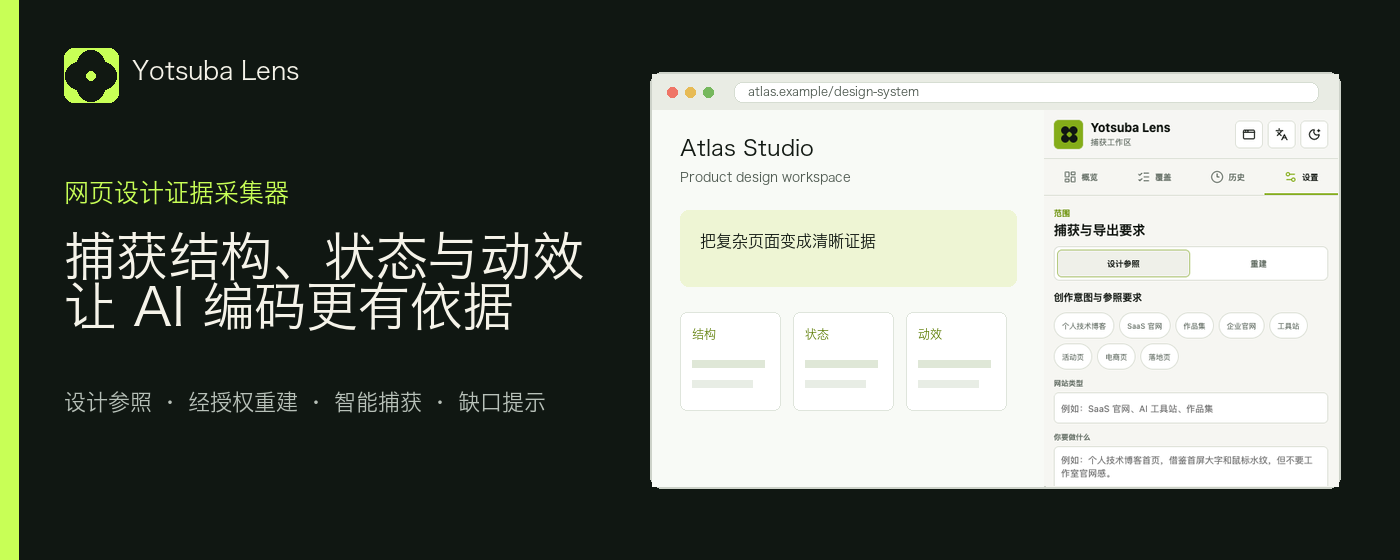
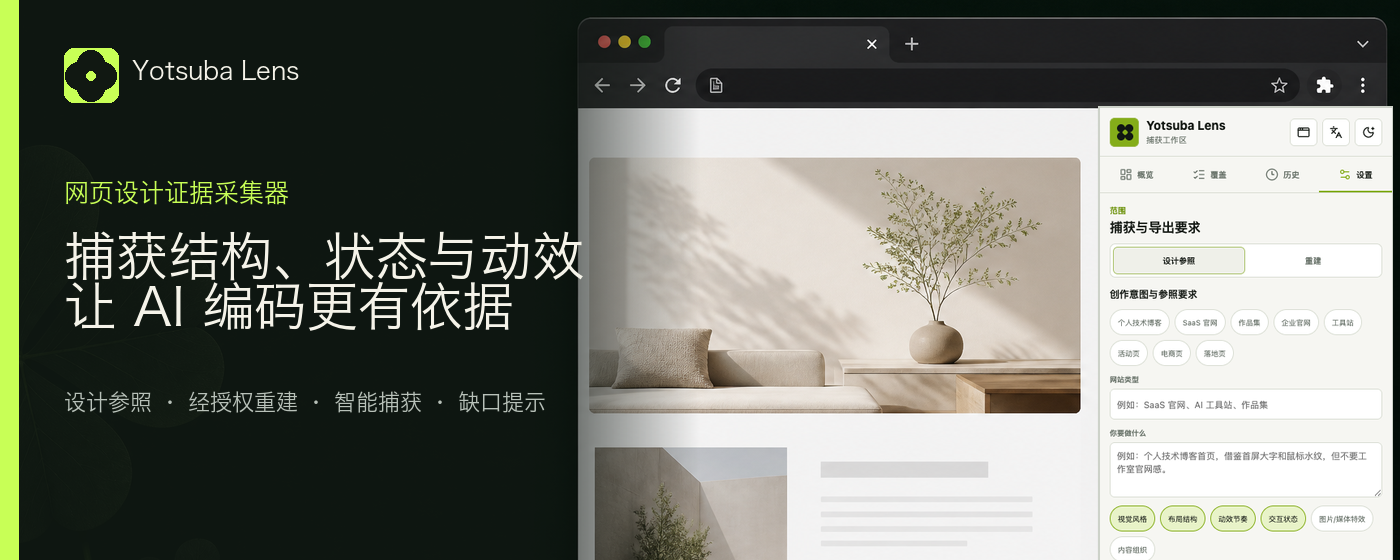
使用 gpt-image-2 升级商店营销图

diff --git a/scripts/build-store-assets.py b/scripts/build-store-assets.py
@@ -94,21 +94,34 @@ def make_icon():
 
 
 def make_small_promo():
-    image = Image.new("RGB", (440, 280), BG)
+    ai_base_path = ASSETS / "source" / "yotsuba-lens-ai-small-promo-base.png"
+    if ai_base_path.exists():
+        source = Image.open(ai_base_path).convert("RGB")
+        crop_height = round(source.width * 280 / 440)
+        crop_top = max(0, source.height - crop_height - 72)
+        image = source.crop((0, crop_top, source.width, crop_top + crop_height)).resize((440, 280), Image.Resampling.LANCZOS)
+
+        # Keep the generated clover visible while creating a quiet copy area.
+        shade = Image.new("RGB", (440, 280), DARK)
+        mask = Image.new("L", (440, 280), 0)
+        mask_draw = ImageDraw.Draw(mask)
+        mask_draw.rectangle((0, 0, 225, 280), fill=150)
+        for x in range(225, 315):
+            alpha = round(150 * (315 - x) / 90)
+            mask_draw.line((x, 0, x, 280), fill=alpha)
+        image.paste(shade, (0, 0), mask)
+    else:
+        image = Image.new("RGB", (440, 280), DARK)
+
     draw = ImageDraw.Draw(image)
-    draw.rectangle((420, 0, 440, 280), fill=LIME)
-    draw_brand(draw, 30, 30, 58)
-    lines, f = fit_text(draw, "让 AI 先看懂设计", 330, 34, True)
-    y = 135
-    for line in lines:
-        draw.text((30, y), line, fill=INK, font=f)
-        y += 38
-    draw_mark(draw, (318, 158), 70, background="#d8f783")
+    draw_brand(draw, 28, 28, 44, dark=True)
+    draw.text((28, 118), "让 AI 先看懂设计", fill=LIGHT, font=font(29, True))
+    draw.text((28, 166), "结构 · 状态 · 动效", fill="#c8ff56", font=font(18, True))
+    draw.text((28, 205), "网页设计证据采集器", fill="#b8c1b9", font=font(15))
     image.save(ASSETS / "promo-small-440x280.png", format="PNG", optimize=True)
 
 
-def make_top_promo():
-    image = Image.new("RGB", (1400, 560), DARK)
+def draw_top_copy(image):
     draw = ImageDraw.Draw(image)
     draw.rectangle((0, 0, 18, 560), fill="#c8ff56")
     draw_brand(draw, 64, 48, 54, dark=True)
@@ -119,6 +132,48 @@ def make_top_promo():
         draw.text((64, y), line, fill=LIGHT, font=f)
         y += 64
     draw.text((64, 390), "设计参照 · 经授权重建 · 智能捕获 · 缺口提示", fill="#b8c1b9", font=font(22))
+    return draw
+
+
+def sidepanel_viewport(target_width, target_height):
+    candidates = [
+        ROOT / "output" / "playwright" / "extension-ui" / "sidepanel-settings-zh-light.png",
+        ROOT / "output" / "playwright" / "extension-ui" / "sidepanel-zh-light.png",
+    ]
+    panel_path = next((candidate for candidate in candidates if candidate.exists()), None)
+    if panel_path is None:
+        return None
+    panel = Image.open(panel_path).convert("RGB")
+    panel = panel.crop((0, 0, panel.width, min(panel.height, 800)))
+    panel = panel.resize((target_width, round(panel.height * target_width / panel.width)), Image.Resampling.LANCZOS)
+    return panel.crop((0, 0, target_width, min(panel.height, target_height)))
+
+
+def make_top_promo():
+    ai_base_path = ASSETS / "source" / "yotsuba-lens-ai-marketing-base.png"
+    if ai_base_path.exists():
+        source = Image.open(ai_base_path).convert("RGB")
+        crop_height = min(source.height, round(source.width * 560 / 1400))
+        crop_top = max(0, min(60, source.height - crop_height))
+        image = source.crop((0, crop_top, source.width, crop_top + crop_height)).resize((1400, 560), Image.Resampling.LANCZOS)
+        shade = Image.new("RGB", (1400, 560), DARK)
+        mask = Image.new("L", (1400, 560), 0)
+        mask_draw = ImageDraw.Draw(mask)
+        mask_draw.rectangle((0, 0, 520, 560), fill=208)
+        for x in range(520, 700):
+            alpha = round(208 * (700 - x) / 180)
+            mask_draw.line((x, 0, x, 560), fill=alpha)
+        image.paste(shade, (0, 0), mask)
+        draw = draw_top_copy(image)
+        panel = sidepanel_viewport(292, 452)
+        if panel is not None:
+            draw.rectangle((1098, 106, 1392, 560), fill="#f5f6f0", outline="#cdd2c9", width=2)
+            image.paste(panel, (1100, 108))
+        image.save(ASSETS / "promo-top-1400x560.png", format="PNG", optimize=True)
+        return
+
+    image = Image.new("RGB", (1400, 560), DARK)
+    draw = draw_top_copy(image)
     frame = (650, 72, 1340, 488)
     draw.rounded_rectangle(frame, radius=12, fill="#ffffff", outline="#cdd2c9", width=2)
     draw.rectangle((652, 74, 1338, 110), fill="#e9ece4")
@@ -142,15 +197,8 @@ def make_top_promo():
 
     draw.rectangle((1044, 110, 1338, 486), fill="#f5f6f0")
     draw.line((1044, 110, 1044, 486), fill="#cdd2c9", width=2)
-    panel_path = ROOT / "output" / "playwright" / "extension-ui" / "sidepanel-settings-zh-light.png"
-    if not panel_path.exists():
-        panel_path = ROOT / "output" / "playwright" / "extension-ui" / "sidepanel-zh-light.png"
-    if panel_path.exists():
-        panel = Image.open(panel_path).convert("RGB")
-        panel = panel.crop((0, 0, panel.width, min(panel.height, 800)))
-        target_width = 294
-        panel = panel.resize((target_width, round(panel.height * target_width / panel.width)), Image.Resampling.LANCZOS)
-        panel = panel.crop((0, 0, target_width, min(panel.height, 376)))
+    panel = sidepanel_viewport(294, 376)
+    if panel is not None:
         image.paste(panel, (1044, 110))
     image.save(ASSETS / "promo-top-1400x560.png", format="PNG", optimize=True)
 
